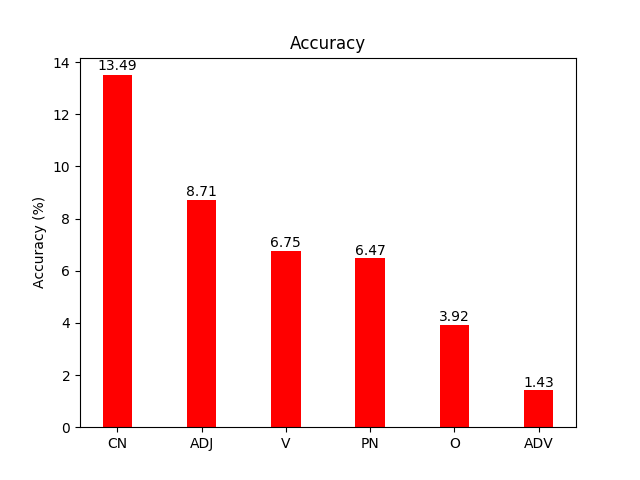
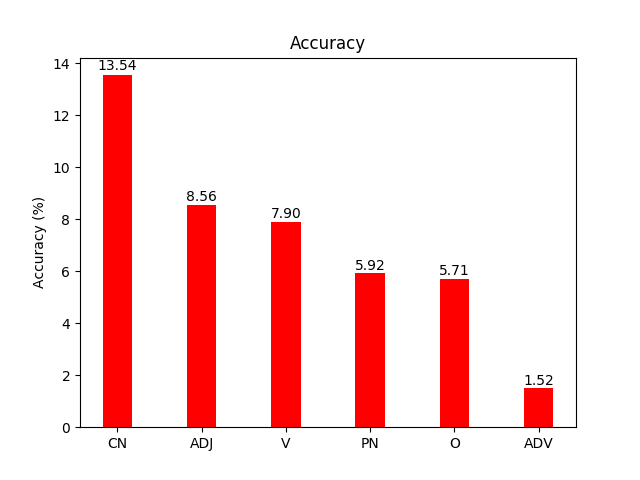
Add analysis markdowns for both lstm and cache

diff --git a/analysis/cache/cache.md b/analysis/cache/cache.md
@@ -1,5 +1,5 @@
-# LSTM
-1 layer, 512 hidden size, 1 epoch  
+# LSTM + CONTINUOUS CACHE 
+1 layer, 512 hidden size, 1 epoch + theta = 0.3, lambda (linear interpolation) = 0.7  
 All perplexity and accuracy results are computed on lambada_test
 
 ### Target word PoS tag
